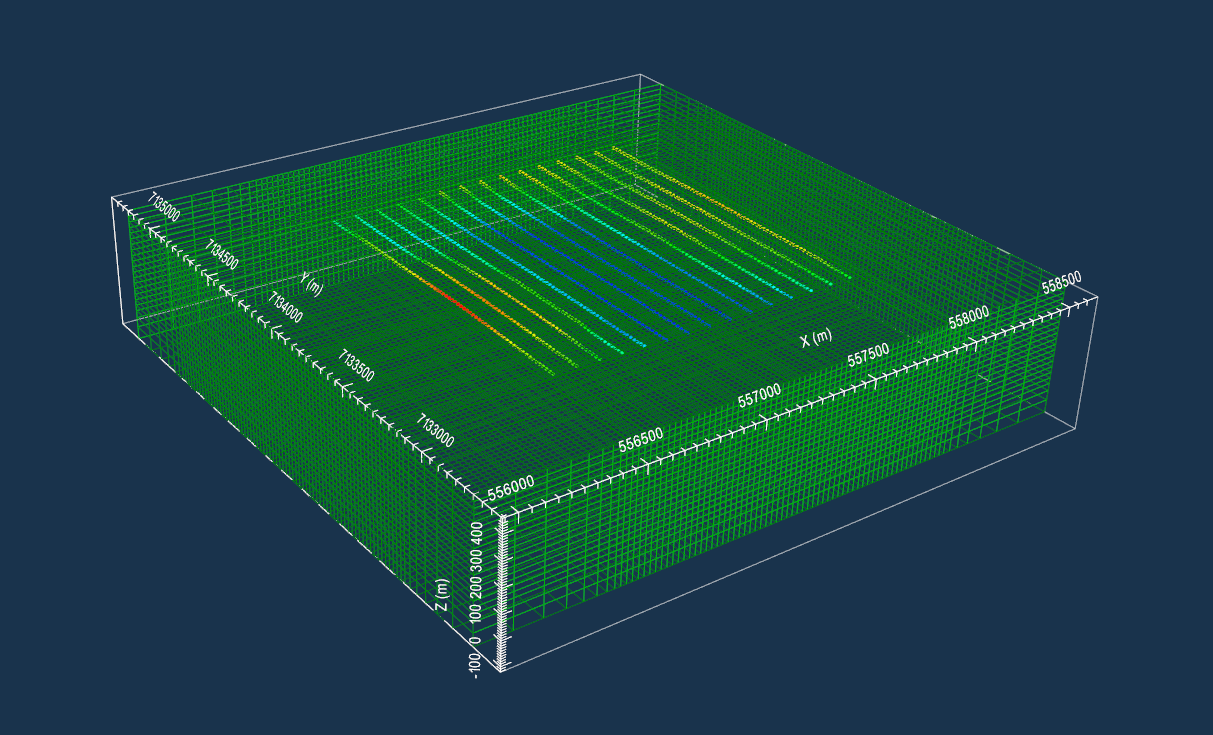
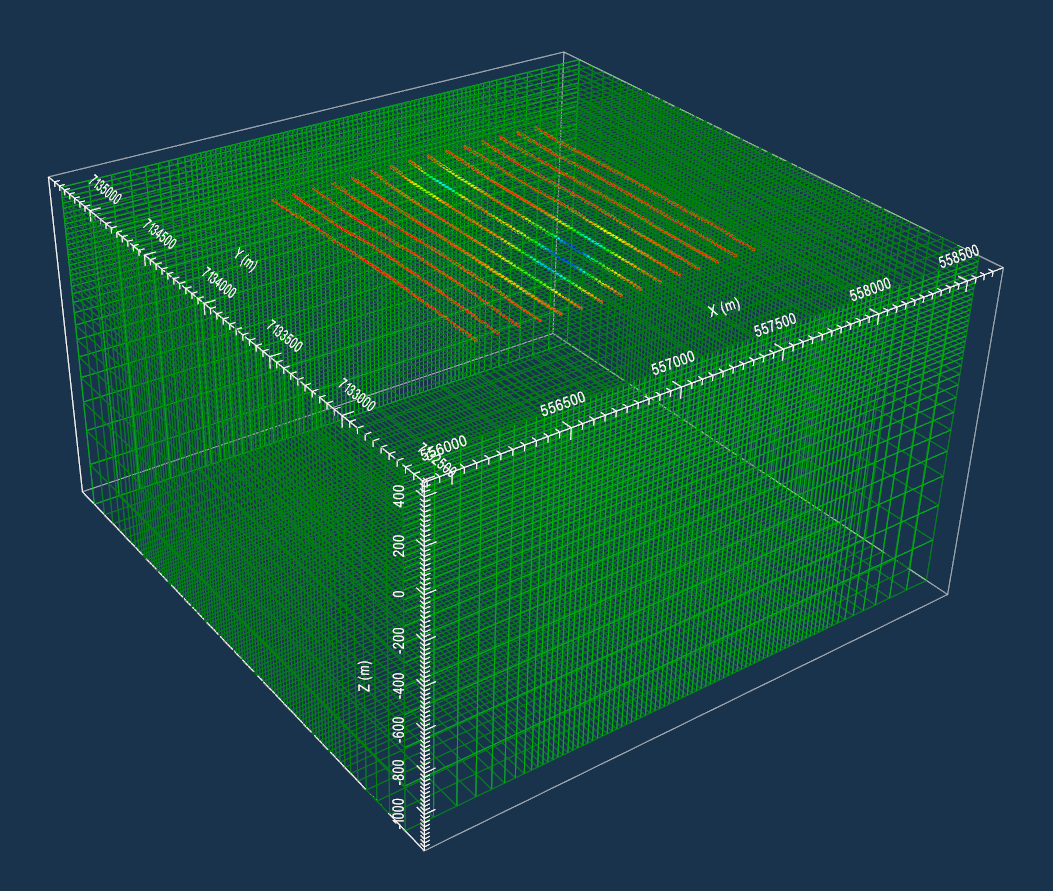
Preliminary content of gravity inversion tutorial

diff --git a/content/AtoZ/gravity/gravityInversion.rst b/content/AtoZ/gravity/gravityInversion.rst
@@ -1,13 +1,67 @@
 .. _AtoZGrav_Inversion:
 
+.. include:: <isonum.txt>
+
 Inverting Corrected Gravity Data
 ================================
 
-These activities include files and parameters necessary to complete a certain task within GIFtools. They utilize some of the key capabilities within GIFtools and if you can do these, you're pretty much a GIFtools expert!
+Prelude
+-------
 
-.. figure:: ../../../images/TKC_7Steps.png
-    :align: right
-    :figwidth: 50%
+Here, we show how GIFtools can be used to invert gravity anomaly data. We consider the case where we have a set of field observations and some a priori knowledge of the local geology; for this example, we know the anomaly is produced by the :ref:`TKC kimberlites <AtoZ_TKCbackground>`. We assume that all necessary corrections have been applied to the raw gravity data; see the :ref:`gravity data corrections tutorial <AtoZGrav_Corrections>`. The goal of this exercise is to invert the gravity anomaly data to recover the optimum density model. Several inversion will be run to show the impact of reference models and various penalty terms on the final inversion result.
+
+.. tip:: The same workflow can be used to invert magnetic data for an arbitrary susceptibility or magnetic vector model.
+
+
+Setup for the Inversion Exercise
+--------------------------------
+
+**If you have completed the tutorial** :ref:`"Forward Model Gravity Data and Compare Against Field Observations" <AtoZGrav_Forward>`:
+
+    - Open your final GIFtools project
+
+**If you have NOT completed the tutorial, you must complete the following steps from the tutorial:**
+
+    - :ref:`Download the necessary files and set the working directory <AtoZGrav_Forward_Download>`
+    - :ref:`Import the files into GIFtools <AtoZGrav_Forward_Import>`
+    - :ref:`Create a mesh from the survey data <AtoZGrav_Forward_Mesh>`
+    - :ref:`Create an active cells model and a synthetic geological model from topography and surface mapping <AtoZGrav_Forward_Model>`
+
+
+Assign Uncertainties and Set I/O Headers
+----------------------------------------
+
+Assigning appropriate uncertainties to the data is necessary for running stable and successful inversions with GIFtools. Because the observed gravity data were generated synthetically, we will add random noise before assigning the uncertainties. Because the statistics of the noise are known, they can be used to assign the correct uncertainties. Complete the following steps:
+
+    - :ref:`Add Gaussian random noise <objectAddNoise>` (Percent = 2, Floor = 0.005)
+    - :ref:`Assign uncertainties to G_noisy <objectAssignUncert>` (Percent = 2, Floor = 0.005)
+    - :ref:`Set I/O headers <objectSetioHeaders>` to ensure the elevation, observed data and uncertainty columns are set correctly
+
+ .. figure:: images/DataUncertainties.png
+    :align: center
+    :width: 700
+
+    Synthetic gravity anomaly data (left). Gravity anomaly data with noise (middle). Uncertainties on noisy data (right).
+
+
+Unconstrained Smooth Inversion
+------------------------------
+
+Here, we perform the most basic type of gravity anomaly inversion.
 
 
 
+To run the inversion:
+
+    - :ref:`Create a gravity inversion object <createGravInv>`
+    - :ref:`Edit the inversion parameters <invEditOptions>`
+        - **Sensitivity Tab:** set the mesh, observed data and topography
+        - **Inversion Tab:** set the active cells
+        - **Blocky model norms:** *leave all as default*
+        - Apply and write files when finished
+    - :ref:`Run the inversion <invRun>`
+    - :ref:`Import inversion results <invLoadResults>`
+    - View the results. The user is encouraged to:
+        - Compare predicted and observed data and examine the misfit
+        - Lay the observed data over the final model
+        - Lay the geological image over the final model

diff --git a/content/AtoZ/gravity/gravityForward.rst b/content/AtoZ/gravity/gravityForward.rst
@@ -10,8 +10,9 @@ Prelude
 
 Here, we show how GIFtools can be used to forward model gravity data for an arbitrary density model. We consider the case where we have a set of field observations and some a priori knowledge of the local geology; for this example, we know the anomaly is produced by the :ref:`TKC kimberlites <AtoZ_TKCbackground>`. The goal of this exercise is to forward model the survey data for a plausible density model, and see if the predicted gravity anomaly sufficiently matches the anomaly observed in the field data. A reasonable match ensures that our current geological understanding is able to explain the cause of the anomaly.
 
-.. tip:: The same workflow can be used to predict magnetic data for an arbitrary susceptibility or magnetic vector models.
+.. tip:: The same workflow can be used to predict magnetic data for an arbitrary susceptibility or magnetic vector model.
 
+.. _AtoZGrav_Forward_Download:
 
 Download files and start new project
 ------------------------------------
@@ -23,6 +24,9 @@ To complete this exercise, you must first download the necessary files and set u
 
 .. tip:: - Steps (without links) are also included with the download
          - Requires at least GIFtools version 2.1.3 (Oct 2017)
+
+
+.. _AtoZGrav_Forward_Import:
 
 Import files
 ------------
@@ -43,7 +47,6 @@ In addition to geophysical data, you may have access to topographical informatio
     :width: 700
 
     Topography imaged in VTK (left). Plan-view image for surface geological mapping (middle). Gravity anomaly data in mGal (right).
-
 
 Create a Survey
 ---------------
@@ -87,6 +90,8 @@ Approach 2: Custom locations
 
     Data location from observed data file (left). Data locations for synthetic survey (right).
 
+.. _AtoZGrav_Forward_Mesh:
+
 Create Mesh from Gravity Survey
 -------------------------------
 
@@ -95,17 +100,21 @@ To predict field data, we must define the domain by creating a mesh. GIFtools ca
     - :ref:`Create mesh from gravity data <objectDataCreateMesh>`
         - Don't forget to apply topography when creating the mesh!
         - Core cell widths = 25 m
+        - Extent above = 0 m
         - Depth of investigation = 400 m
         - Padding = 500 m on each side, 1000 m in depth
+        - Padding factor = 1.2
 
 
 .. figure:: images/MeshFromSurvey.png
     :align: center
     :width: 550
 
-    Mesh created from survey and viewed in VTK. Data locations from the survey have been imported.
+    Mesh created from survey and viewed in VTK. Gravity anomaly data from the survey have been imported at their locations.
 
 .. tip:: There are other ways to make meshes. If available, you could :ref:`import <importMesh>` a pre-existing mesh or :ref:`create and OcTree mesh <createOctreeMesh>`.
+
+.. _AtoZGrav_Forward_Model:
 
 Create Models
 -------------
